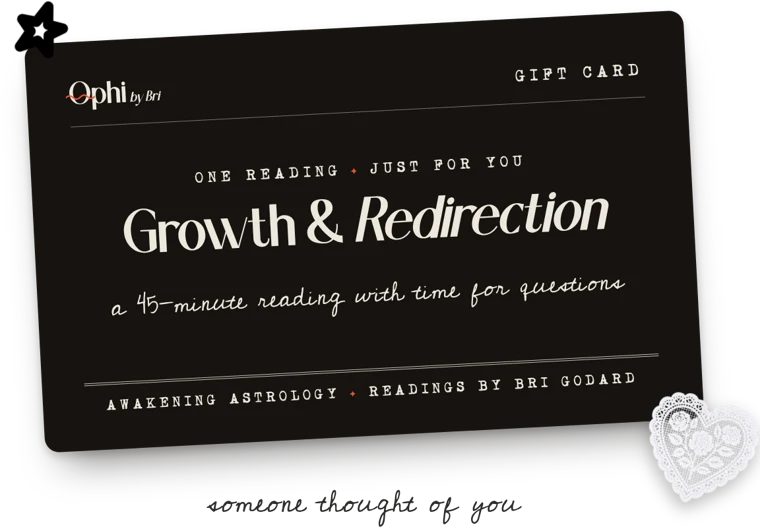
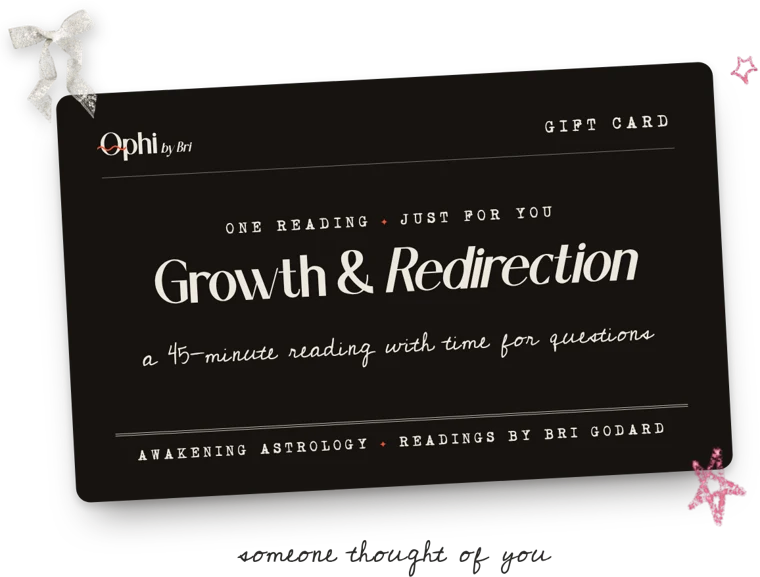
Gift: chrome-star art on the homepage gift note; each gift card has its own lace and star pieces; intro copy (Bri, 3 Nov)
Claude-Session: https://claude.ai/code/session_016a1P3APGb6PUkwFe7VrJqS

diff --git a/book/index.html b/book/index.html
@@ -33,8 +33,8 @@
 <link rel="preconnect" href="https://fonts.googleapis.com">
 <link rel="preconnect" href="https://fonts.gstatic.com" crossorigin>
 <link href="https://fonts.googleapis.com/css2?family=Inter:wght@400;500;600&family=Playfair+Display:ital,wght@0,400;0,500;0,600;0,700;0,800;1,400;1,500;1,600&family=Special+Elite&display=swap" rel="stylesheet">
-<link rel="stylesheet" href="/assets/ophi.css?v=96289251">
-<script src="/assets/menu.js?v=96289251" defer></script>
+<link rel="stylesheet" href="/assets/ophi.css?v=cd210a35">
+<script src="/assets/menu.js?v=cd210a35" defer></script>
 <script>(function(){var d=document.documentElement;function f(){var w=d.clientWidth||innerWidth,z=w>1280?Math.min(w/1280,2):1;d.style.setProperty('--z',z);d.style.setProperty('--vw',innerWidth/z/100+'px');d.style.setProperty('--vh',innerHeight/z/100+'px');window.OPHI_Z=z;K=0}var K=0;function k(){if(K)return K;var z=window.OPHI_Z||1;if(z==1||!document.body)return 1;var p=document.getElementById('ophi-probe');if(!p){p=document.createElement('div');p.id='ophi-probe';p.style.cssText='position:absolute;left:0;top:0;width:100px;height:1px;visibility:hidden;pointer-events:none';document.body.appendChild(p)}var w=p.getBoundingClientRect().width;K=w?z/(w/100):1;return K}window.OPHI_BOX=function(el){var r=el.getBoundingClientRect(),s=k();if(s>.99&&s<1.01)return r;return{left:r.left*s,top:r.top*s,right:r.right*s,bottom:r.bottom*s,width:r.width*s,height:r.height*s,x:r.left*s,y:r.top*s}};f();addEventListener('resize',f)})();</script>
 </head>
 <body class="flow">
@@ -141,10 +141,10 @@
   <div class="sec-row center">
     <h2 class="flow-h">Gift a <em>reading.</em></h2>
   </div>
-  <p class="book-intro">Know someone who would enjoy a reading? Gift them their star power. They get a gift card by email within minutes, with a private link to book a time that suits them. You don't need their birth details. They add those when they book.</p>
+  <p class="book-intro">Know someone who would enjoy a reading? Gift them their star power. They get a gift card by email within minutes, with a private link to book a time that suits them. You don't need their birth details. They add this themselves.</p>
   <div class="gift-trio">
     <figure class="gift-card">
-      <img src="/assets/gift/gift-meet-yourself.webp" alt="Ophi by Bri gift card for a Meet Yourself reading" width="760" height="527" loading="lazy" decoding="async">
+      <img src="/assets/gift/gift-meet-yourself.webp" alt="Ophi by Bri gift card for a Meet Yourself reading" width="760" height="578" loading="lazy" decoding="async">
       <figcaption><span class="gift-price">$135.45 <small>incl. GST</small></span></figcaption>
       <a class="price-cta" href="https://buy.stripe.com/9B628sddn4b25CNeti4c801" target="_blank" rel="noopener noreferrer">Gift this reading <svg width="18" height="18" viewBox="0 0 24 24" fill="none" stroke="currentColor" stroke-width="1.8" stroke-linecap="round" stroke-linejoin="round"><path d="M5 12h14M13 6l6 6-6 6"/></svg></a>
     </figure>
@@ -154,7 +154,7 @@
       <a class="price-cta" href="https://buy.stripe.com/3cI14o8X74b2ghr5WM4c800" target="_blank" rel="noopener noreferrer">Gift this reading <svg width="18" height="18" viewBox="0 0 24 24" fill="none" stroke="currentColor" stroke-width="1.8" stroke-linecap="round" stroke-linejoin="round"><path d="M5 12h14M13 6l6 6-6 6"/></svg></a>
     </figure>
     <figure class="gift-card">
-      <img src="/assets/gift/gift-growth-redirection.webp" alt="Ophi by Bri gift card for a Growth and Redirection reading" width="760" height="527" loading="lazy" decoding="async">
+      <img src="/assets/gift/gift-growth-redirection.webp" alt="Ophi by Bri gift card for a Growth and Redirection reading" width="760" height="577" loading="lazy" decoding="async">
       <figcaption><span class="gift-price">$103.95 <small>incl. GST</small></span></figcaption>
       <a class="price-cta" href="https://buy.stripe.com/3cI6oI1uF4b28OZ4SI4c802" target="_blank" rel="noopener noreferrer">Gift this reading <svg width="18" height="18" viewBox="0 0 24 24" fill="none" stroke="currentColor" stroke-width="1.8" stroke-linecap="round" stroke-linejoin="round"><path d="M5 12h14M13 6l6 6-6 6"/></svg></a>
     </figure>
@@ -206,6 +206,6 @@
   <svg class="sound-play" width="12" height="12" viewBox="0 0 24 24" aria-hidden="true"><path fill="currentColor" d="M6 3.5v17l14-8.5z"/></svg>
   <span class="sound-bars" aria-hidden="true"><i></i><i></i><i></i></span>
 </button>
-<script src="/assets/ophi.js?v=96289251"></script>
+<script src="/assets/ophi.js?v=cd210a35"></script>
 </body>
 </html>

diff --git a/assets/ophi.css b/assets/ophi.css
@@ -3102,7 +3102,7 @@ body.flow .hero.mini > .hero-key{--tilt:-14deg;left:calc(var(--key) * -.18);bott
 .gift-sec{padding-top:clamp(40px,calc(6 * var(--vw,1vw)),80px)}
 .gift-trio{display:grid;grid-template-columns:repeat(3,minmax(0,1fr));gap:clamp(18px,calc(2.4 * var(--vw,1vw)),32px);max-width:1084px;margin:0 auto;padding:0 var(--pad)}
 .gift-card{margin:0;display:flex;flex-direction:column;align-items:center;text-align:center}
-.gift-card img{width:100%;height:auto;display:block;transition:transform .3s}
+.gift-card img{width:100%;height:auto;aspect-ratio:760/578;object-fit:contain;object-position:center bottom;display:block;transition:transform .3s}
 .gift-card:hover img{transform:rotate(1.5deg) scale(1.02)}
 .gift-card figcaption{display:flex;flex-direction:column;gap:4px;margin:10px 0 16px}
 .gift-name{font-family:var(--font-title);font-size:clamp(22px,calc(2 * var(--vw,1vw)),28px);line-height:1.1;color:var(--ink)}
@@ -3111,14 +3111,19 @@ body.flow .hero.mini > .hero-key{--tilt:-14deg;left:calc(var(--key) * -.18);bott
 .gift-card .price-cta{margin-top:auto}
 .gift-fine{max-width:620px;margin:clamp(22px,calc(3 * var(--vw,1vw)),34px) auto 0;padding:0 var(--pad);text-align:center;font-size:13px;line-height:1.6;color:var(--ink-2,#413b32)}
 @media(max-width:820px){.gift-trio{grid-template-columns:1fr;max-width:420px}}
-.wel-gift{position:relative;display:grid;grid-template-columns:96px minmax(0,1fr);grid-template-areas:"tag q" "tag t" "tag go";column-gap:18px;row-gap:2px;
+.wel-gift{position:relative;display:grid;grid-template-columns:52px minmax(0,1fr);grid-template-areas:"tag q" "tag t" "tag go";column-gap:16px;row-gap:2px;
   align-items:center;width:fit-content;max-width:100%;box-sizing:border-box;margin-top:clamp(22px,calc(2.6 * var(--vw,1vw)),34px);padding:14px 22px 14px 18px;
   border:1.5px dashed rgba(22,19,16,.45);text-decoration:none;color:var(--ink);transform:rotate(-1.2deg);transition:transform .25s,border-color .25s}
 .wel-gift:hover,.wel-gift:focus-visible{transform:rotate(0deg) translateY(-2px);border-color:var(--coral)}
-.wg-tag{grid-area:tag;width:96px;height:auto;transform:rotate(-14deg)}
-.wg-bow{position:absolute;width:46px;right:-18px;top:-22px;transform:rotate(16deg)}
+.wg-art{grid-area:tag;position:relative;width:52px;height:96px;align-self:center}
+.wg-art img{position:absolute;height:auto;transition:transform .35s}
+.wg-s1{width:46px;left:0;top:10px;transform:rotate(-12deg)}
+.wg-s2{width:28px;left:26px;top:58px;transform:rotate(14deg)}
+.wg-s3{width:16px;left:4px;top:70px;transform:rotate(-6deg)}
+.wel-gift:hover .wg-s1{transform:rotate(8deg) scale(1.08)}
+.wel-gift:hover .wg-s2{transform:rotate(-10deg) scale(1.1)}
 .wg-q{grid-area:q;font-family:var(--font-hand);color:var(--pen);font-size:21px;line-height:1.1}
 .wg-t{grid-area:t;font-family:var(--font-title);font-size:clamp(22px,calc(2 * var(--vw,1vw)),27px);line-height:1.15}
 .wg-go{grid-area:go;justify-self:start;margin-top:6px;font-family:var(--font-button);font-size:10.5px;letter-spacing:.14em;text-transform:uppercase;border-bottom:1.5px solid var(--ink);padding-bottom:2px;transition:color .2s,border-color .2s}
 .wel-gift:hover .wg-go,.wel-gift:focus-visible .wg-go{color:var(--coral);border-color:var(--coral)}
-@media(max-width:520px){.wel-gift{grid-template-columns:62px minmax(0,1fr);padding:12px 16px 12px 12px;column-gap:12px}.wg-tag{width:62px}.wg-q{font-size:17px}.wg-bow{right:-8px}}
+@media(max-width:520px){.wel-gift{grid-template-columns:44px minmax(0,1fr);padding:12px 16px 12px 12px;column-gap:12px}.wg-art{transform:scale(.85);transform-origin:left center}.wg-q{font-size:17px}}

diff --git a/src/flow.css b/src/flow.css
@@ -2061,7 +2061,7 @@ body.flow .hero.mini > .hero-key{--tilt:-14deg;left:calc(var(--key) * -.18);bott
 .gift-sec{padding-top:clamp(40px,6vw,80px)}
 .gift-trio{display:grid;grid-template-columns:repeat(3,minmax(0,1fr));gap:clamp(18px,2.4vw,32px);max-width:1084px;margin:0 auto;padding:0 var(--pad)}
 .gift-card{margin:0;display:flex;flex-direction:column;align-items:center;text-align:center}
-.gift-card img{width:100%;height:auto;display:block;transition:transform .3s}
+.gift-card img{width:100%;height:auto;aspect-ratio:760/578;object-fit:contain;object-position:center bottom;display:block;transition:transform .3s}
 .gift-card:hover img{transform:rotate(1.5deg) scale(1.02)}
 .gift-card figcaption{display:flex;flex-direction:column;gap:4px;margin:10px 0 16px}
 .gift-name{font-family:var(--font-title);font-size:clamp(22px,2vw,28px);line-height:1.1;color:var(--ink)}
@@ -2070,14 +2070,19 @@ body.flow .hero.mini > .hero-key{--tilt:-14deg;left:calc(var(--key) * -.18);bott
 .gift-card .price-cta{margin-top:auto}
 .gift-fine{max-width:620px;margin:clamp(22px,3vw,34px) auto 0;padding:0 var(--pad);text-align:center;font-size:13px;line-height:1.6;color:var(--ink-2,#413b32)}
 @media(max-width:820px){.gift-trio{grid-template-columns:1fr;max-width:420px}}
-.wel-gift{position:relative;display:grid;grid-template-columns:96px minmax(0,1fr);grid-template-areas:"tag q" "tag t" "tag go";column-gap:18px;row-gap:2px;
+.wel-gift{position:relative;display:grid;grid-template-columns:52px minmax(0,1fr);grid-template-areas:"tag q" "tag t" "tag go";column-gap:16px;row-gap:2px;
   align-items:center;width:fit-content;max-width:100%;box-sizing:border-box;margin-top:clamp(22px,2.6vw,34px);padding:14px 22px 14px 18px;
   border:1.5px dashed rgba(22,19,16,.45);text-decoration:none;color:var(--ink);transform:rotate(-1.2deg);transition:transform .25s,border-color .25s}
 .wel-gift:hover,.wel-gift:focus-visible{transform:rotate(0deg) translateY(-2px);border-color:var(--coral)}
-.wg-tag{grid-area:tag;width:96px;height:auto;transform:rotate(-14deg)}
-.wg-bow{position:absolute;width:46px;right:-18px;top:-22px;transform:rotate(16deg)}
+.wg-art{grid-area:tag;position:relative;width:52px;height:96px;align-self:center}
+.wg-art img{position:absolute;height:auto;transition:transform .35s}
+.wg-s1{width:46px;left:0;top:10px;transform:rotate(-12deg)}
+.wg-s2{width:28px;left:26px;top:58px;transform:rotate(14deg)}
+.wg-s3{width:16px;left:4px;top:70px;transform:rotate(-6deg)}
+.wel-gift:hover .wg-s1{transform:rotate(8deg) scale(1.08)}
+.wel-gift:hover .wg-s2{transform:rotate(-10deg) scale(1.1)}
 .wg-q{grid-area:q;font-family:var(--font-hand);color:var(--pen);font-size:21px;line-height:1.1}
 .wg-t{grid-area:t;font-family:var(--font-title);font-size:clamp(22px,2vw,27px);line-height:1.15}
 .wg-go{grid-area:go;justify-self:start;margin-top:6px;font-family:var(--font-button);font-size:10.5px;letter-spacing:.14em;text-transform:uppercase;border-bottom:1.5px solid var(--ink);padding-bottom:2px;transition:color .2s,border-color .2s}
 .wel-gift:hover .wg-go,.wel-gift:focus-visible .wg-go{color:var(--coral);border-color:var(--coral)}
-@media(max-width:520px){.wel-gift{grid-template-columns:62px minmax(0,1fr);padding:12px 16px 12px 12px;column-gap:12px}.wg-tag{width:62px}.wg-q{font-size:17px}.wg-bow{right:-8px}}
+@media(max-width:520px){.wel-gift{grid-template-columns:44px minmax(0,1fr);padding:12px 16px 12px 12px;column-gap:12px}.wg-art{transform:scale(.85);transform-origin:left center}.wg-q{font-size:17px}}

diff --git a/index.html b/index.html
@@ -30,8 +30,8 @@
 <link rel="preconnect" href="https://fonts.googleapis.com">
 <link rel="preconnect" href="https://fonts.gstatic.com" crossorigin>
 <link href="https://fonts.googleapis.com/css2?family=Inter:wght@400;500;600&family=Playfair+Display:ital,wght@0,400;0,500;0,600;0,700;0,800;1,400;1,500;1,600&family=Special+Elite&display=swap" rel="stylesheet">
-<link rel="stylesheet" href="/assets/ophi.css?v=96289251">
-<script src="/assets/menu.js?v=96289251" defer></script>
+<link rel="stylesheet" href="/assets/ophi.css?v=cd210a35">
+<script src="/assets/menu.js?v=cd210a35" defer></script>
 <script>(function(){var d=document.documentElement;function f(){var w=d.clientWidth||innerWidth,z=w>1280?Math.min(w/1280,2):1;d.style.setProperty('--z',z);d.style.setProperty('--vw',innerWidth/z/100+'px');d.style.setProperty('--vh',innerHeight/z/100+'px');window.OPHI_Z=z;K=0}var K=0;function k(){if(K)return K;var z=window.OPHI_Z||1;if(z==1||!document.body)return 1;var p=document.getElementById('ophi-probe');if(!p){p=document.createElement('div');p.id='ophi-probe';p.style.cssText='position:absolute;left:0;top:0;width:100px;height:1px;visibility:hidden;pointer-events:none';document.body.appendChild(p)}var w=p.getBoundingClientRect().width;K=w?z/(w/100):1;return K}window.OPHI_BOX=function(el){var r=el.getBoundingClientRect(),s=k();if(s>.99&&s<1.01)return r;return{left:r.left*s,top:r.top*s,right:r.right*s,bottom:r.bottom*s,width:r.width*s,height:r.height*s,x:r.left*s,y:r.top*s}};f();addEventListener('resize',f)})();</script>
 </head>
 <body class="flow">
@@ -139,8 +139,7 @@
         <p class="np-lede">Ophi is Awakening Astrology for the curious, the questioning, the daring, and anyone standing at the edge of a new chapter.</p>
         <p class="np-wel-body">Get curious about yourself. You might be surprised it's been there all along.</p>
         <a class="wel-gift" href="/book/#gift">
-          <img class="wg-tag" src="/assets/cork/tag.webp" alt="" aria-hidden="true" loading="lazy" decoding="async">
-          <img class="wg-bow" src="/assets/journal/bow.webp" alt="" aria-hidden="true" loading="lazy" decoding="async">
+          <span class="wg-art" aria-hidden="true"><img class="wg-s1" src="/assets/journal/chrome-star-4.webp" alt="" loading="lazy" decoding="async"><img class="wg-s2" src="/assets/journal/chrome-star-1.webp" alt="" loading="lazy" decoding="async"><img class="wg-s3" src="/assets/eph/glitter-star-2.webp" alt="" loading="lazy" decoding="async"></span>
           <span class="wg-q">know someone who would enjoy a reading?</span>
           <span class="wg-t">Gift them their <em>star power.</em></span>
           <span class="wg-go">Gift a reading &rarr;</span>
@@ -299,6 +298,6 @@
   <svg class="sound-play" width="12" height="12" viewBox="0 0 24 24" aria-hidden="true"><path fill="currentColor" d="M6 3.5v17l14-8.5z"/></svg>
   <span class="sound-bars" aria-hidden="true"><i></i><i></i><i></i></span>
 </button>
-<script src="/assets/ophi.js?v=96289251"></script>
+<script src="/assets/ophi.js?v=cd210a35"></script>
 </body>
 </html>

diff --git a/src/pages/book.html b/src/pages/book.html
@@ -27,10 +27,10 @@
   <div class="sec-row center">
     <h2 class="flow-h">Gift a <em>reading.</em></h2>
   </div>
-  <p class="book-intro">Know someone who would enjoy a reading? Gift them their star power. They get a gift card by email within minutes, with a private link to book a time that suits them. You don't need their birth details. They add those when they book.</p>
+  <p class="book-intro">Know someone who would enjoy a reading? Gift them their star power. They get a gift card by email within minutes, with a private link to book a time that suits them. You don't need their birth details. They add this themselves.</p>
   <div class="gift-trio">
     <figure class="gift-card">
-      <img src="/assets/gift/gift-meet-yourself.webp" alt="Ophi by Bri gift card for a Meet Yourself reading" width="760" height="527" loading="lazy" decoding="async">
+      <img src="/assets/gift/gift-meet-yourself.webp" alt="Ophi by Bri gift card for a Meet Yourself reading" width="760" height="578" loading="lazy" decoding="async">
       <figcaption><span class="gift-price">$135.45 <small>incl. GST</small></span></figcaption>
       <a class="price-cta" href="https://buy.stripe.com/9B628sddn4b25CNeti4c801" target="_blank" rel="noopener noreferrer">Gift this reading <svg width="18" height="18" viewBox="0 0 24 24" fill="none" stroke="currentColor" stroke-width="1.8" stroke-linecap="round" stroke-linejoin="round"><path d="M5 12h14M13 6l6 6-6 6"/></svg></a>
     </figure>
@@ -40,7 +40,7 @@
       <a class="price-cta" href="https://buy.stripe.com/3cI14o8X74b2ghr5WM4c800" target="_blank" rel="noopener noreferrer">Gift this reading <svg width="18" height="18" viewBox="0 0 24 24" fill="none" stroke="currentColor" stroke-width="1.8" stroke-linecap="round" stroke-linejoin="round"><path d="M5 12h14M13 6l6 6-6 6"/></svg></a>
     </figure>
     <figure class="gift-card">
-      <img src="/assets/gift/gift-growth-redirection.webp" alt="Ophi by Bri gift card for a Growth and Redirection reading" width="760" height="527" loading="lazy" decoding="async">
+      <img src="/assets/gift/gift-growth-redirection.webp" alt="Ophi by Bri gift card for a Growth and Redirection reading" width="760" height="577" loading="lazy" decoding="async">
       <figcaption><span class="gift-price">$103.95 <small>incl. GST</small></span></figcaption>
       <a class="price-cta" href="https://buy.stripe.com/3cI6oI1uF4b28OZ4SI4c802" target="_blank" rel="noopener noreferrer">Gift this reading <svg width="18" height="18" viewBox="0 0 24 24" fill="none" stroke="currentColor" stroke-width="1.8" stroke-linecap="round" stroke-linejoin="round"><path d="M5 12h14M13 6l6 6-6 6"/></svg></a>
     </figure>

diff --git a/this-season/2026/10/index.html b/this-season/2026/10/index.html
@@ -30,8 +30,8 @@
 <link rel="preconnect" href="https://fonts.googleapis.com">
 <link rel="preconnect" href="https://fonts.gstatic.com" crossorigin>
 <link href="https://fonts.googleapis.com/css2?family=Inter:wght@400;500;600&family=Playfair+Display:ital,wght@0,400;0,500;0,600;0,700;0,800;1,400;1,500;1,600&family=Special+Elite&display=swap" rel="stylesheet">
-<link rel="stylesheet" href="/assets/ophi.css?v=96289251">
-<script src="/assets/menu.js?v=96289251" defer></script>
+<link rel="stylesheet" href="/assets/ophi.css?v=cd210a35">
+<script src="/assets/menu.js?v=cd210a35" defer></script>
 <script>(function(){var d=document.documentElement;function f(){var w=d.clientWidth||innerWidth,z=w>1280?Math.min(w/1280,2):1;d.style.setProperty('--z',z);d.style.setProperty('--vw',innerWidth/z/100+'px');d.style.setProperty('--vh',innerHeight/z/100+'px');window.OPHI_Z=z;K=0}var K=0;function k(){if(K)return K;var z=window.OPHI_Z||1;if(z==1||!document.body)return 1;var p=document.getElementById('ophi-probe');if(!p){p=document.createElement('div');p.id='ophi-probe';p.style.cssText='position:absolute;left:0;top:0;width:100px;height:1px;visibility:hidden;pointer-events:none';document.body.appendChild(p)}var w=p.getBoundingClientRect().width;K=w?z/(w/100):1;return K}window.OPHI_BOX=function(el){var r=el.getBoundingClientRect(),s=k();if(s>.99&&s<1.01)return r;return{left:r.left*s,top:r.top*s,right:r.right*s,bottom:r.bottom*s,width:r.width*s,height:r.height*s,x:r.left*s,y:r.top*s}};f();addEventListener('resize',f)})();</script>
 </head>
 <body class="flow">
@@ -302,6 +302,6 @@
   <svg class="sound-play" width="12" height="12" viewBox="0 0 24 24" aria-hidden="true"><path fill="currentColor" d="M6 3.5v17l14-8.5z"/></svg>
   <span class="sound-bars" aria-hidden="true"><i></i><i></i><i></i></span>
 </button>
-<script src="/assets/ophi.js?v=96289251"></script>
+<script src="/assets/ophi.js?v=cd210a35"></script>
 </body>
 </html>

diff --git a/this-season/2026/11/index.html b/this-season/2026/11/index.html
@@ -30,8 +30,8 @@
 <link rel="preconnect" href="https://fonts.googleapis.com">
 <link rel="preconnect" href="https://fonts.gstatic.com" crossorigin>
 <link href="https://fonts.googleapis.com/css2?family=Inter:wght@400;500;600&family=Playfair+Display:ital,wght@0,400;0,500;0,600;0,700;0,800;1,400;1,500;1,600&family=Special+Elite&display=swap" rel="stylesheet">
-<link rel="stylesheet" href="/assets/ophi.css?v=96289251">
-<script src="/assets/menu.js?v=96289251" defer></script>
+<link rel="stylesheet" href="/assets/ophi.css?v=cd210a35">
+<script src="/assets/menu.js?v=cd210a35" defer></script>
 <script>(function(){var d=document.documentElement;function f(){var w=d.clientWidth||innerWidth,z=w>1280?Math.min(w/1280,2):1;d.style.setProperty('--z',z);d.style.setProperty('--vw',innerWidth/z/100+'px');d.style.setProperty('--vh',innerHeight/z/100+'px');window.OPHI_Z=z;K=0}var K=0;function k(){if(K)return K;var z=window.OPHI_Z||1;if(z==1||!document.body)return 1;var p=document.getElementById('ophi-probe');if(!p){p=document.createElement('div');p.id='ophi-probe';p.style.cssText='position:absolute;left:0;top:0;width:100px;height:1px;visibility:hidden;pointer-events:none';document.body.appendChild(p)}var w=p.getBoundingClientRect().width;K=w?z/(w/100):1;return K}window.OPHI_BOX=function(el){var r=el.getBoundingClientRect(),s=k();if(s>.99&&s<1.01)return r;return{left:r.left*s,top:r.top*s,right:r.right*s,bottom:r.bottom*s,width:r.width*s,height:r.height*s,x:r.left*s,y:r.top*s}};f();addEventListener('resize',f)})();</script>
 </head>
 <body class="flow">
@@ -302,6 +302,6 @@
   <svg class="sound-play" width="12" height="12" viewBox="0 0 24 24" aria-hidden="true"><path fill="currentColor" d="M6 3.5v17l14-8.5z"/></svg>
   <span class="sound-bars" aria-hidden="true"><i></i><i></i><i></i></span>
 </button>
-<script src="/assets/ophi.js?v=96289251"></script>
+<script src="/assets/ophi.js?v=cd210a35"></script>
 </body>
 </html>

diff --git a/this-season/index.html b/this-season/index.html
@@ -30,8 +30,8 @@
 <link rel="preconnect" href="https://fonts.googleapis.com">
 <link rel="preconnect" href="https://fonts.gstatic.com" crossorigin>
 <link href="https://fonts.googleapis.com/css2?family=Inter:wght@400;500;600&family=Playfair+Display:ital,wght@0,400;0,500;0,600;0,700;0,800;1,400;1,500;1,600&family=Special+Elite&display=swap" rel="stylesheet">
-<link rel="stylesheet" href="/assets/ophi.css?v=96289251">
-<script src="/assets/menu.js?v=96289251" defer></script>
+<link rel="stylesheet" href="/assets/ophi.css?v=cd210a35">
+<script src="/assets/menu.js?v=cd210a35" defer></script>
 <script>(function(){var d=document.documentElement;function f(){var w=d.clientWidth||innerWidth,z=w>1280?Math.min(w/1280,2):1;d.style.setProperty('--z',z);d.style.setProperty('--vw',innerWidth/z/100+'px');d.style.setProperty('--vh',innerHeight/z/100+'px');window.OPHI_Z=z;K=0}var K=0;function k(){if(K)return K;var z=window.OPHI_Z||1;if(z==1||!document.body)return 1;var p=document.getElementById('ophi-probe');if(!p){p=document.createElement('div');p.id='ophi-probe';p.style.cssText='position:absolute;left:0;top:0;width:100px;height:1px;visibility:hidden;pointer-events:none';document.body.appendChild(p)}var w=p.getBoundingClientRect().width;K=w?z/(w/100):1;return K}window.OPHI_BOX=function(el){var r=el.getBoundingClientRect(),s=k();if(s>.99&&s<1.01)return r;return{left:r.left*s,top:r.top*s,right:r.right*s,bottom:r.bottom*s,width:r.width*s,height:r.height*s,x:r.left*s,y:r.top*s}};f();addEventListener('resize',f)})();</script>
 </head>
 <body class="flow">
@@ -302,6 +302,6 @@
   <svg class="sound-play" width="12" height="12" viewBox="0 0 24 24" aria-hidden="true"><path fill="currentColor" d="M6 3.5v17l14-8.5z"/></svg>
   <span class="sound-bars" aria-hidden="true"><i></i><i></i><i></i></span>
 </button>
-<script src="/assets/ophi.js?v=96289251"></script>
+<script src="/assets/ophi.js?v=cd210a35"></script>
 </body>
 </html>

diff --git a/rituals/index.html b/rituals/index.html
@@ -29,8 +29,8 @@
 <link rel="preconnect" href="https://fonts.googleapis.com">
 <link rel="preconnect" href="https://fonts.gstatic.com" crossorigin>
 <link href="https://fonts.googleapis.com/css2?family=Inter:wght@400;500;600&family=Playfair+Display:ital,wght@0,400;0,500;0,600;0,700;0,800;1,400;1,500;1,600&family=Special+Elite&display=swap" rel="stylesheet">
-<link rel="stylesheet" href="/assets/ophi.css?v=96289251">
-<script src="/assets/menu.js?v=96289251" defer></script>
+<link rel="stylesheet" href="/assets/ophi.css?v=cd210a35">
+<script src="/assets/menu.js?v=cd210a35" defer></script>
 <script>(function(){var d=document.documentElement;function f(){var w=d.clientWidth||innerWidth,z=w>1280?Math.min(w/1280,2):1;d.style.setProperty('--z',z);d.style.setProperty('--vw',innerWidth/z/100+'px');d.style.setProperty('--vh',innerHeight/z/100+'px');window.OPHI_Z=z;K=0}var K=0;function k(){if(K)return K;var z=window.OPHI_Z||1;if(z==1||!document.body)return 1;var p=document.getElementById('ophi-probe');if(!p){p=document.createElement('div');p.id='ophi-probe';p.style.cssText='position:absolute;left:0;top:0;width:100px;height:1px;visibility:hidden;pointer-events:none';document.body.appendChild(p)}var w=p.getBoundingClientRect().width;K=w?z/(w/100):1;return K}window.OPHI_BOX=function(el){var r=el.getBoundingClientRect(),s=k();if(s>.99&&s<1.01)return r;return{left:r.left*s,top:r.top*s,right:r.right*s,bottom:r.bottom*s,width:r.width*s,height:r.height*s,x:r.left*s,y:r.top*s}};f();addEventListener('resize',f)})();</script>
 </head>
 <body class="flow secret">
@@ -587,6 +587,6 @@ var tilt;
   addEventListener('scroll',function(){ if(!q){ q=true; requestAnimationFrame(tilt); } },{passive:true}); addEventListener('resize',tilt); tilt();
 })();
 </script>
-<script src="/assets/ophi.js?v=96289251"></script>
+<script src="/assets/ophi.js?v=cd210a35"></script>
 </body>
 </html>

diff --git a/404.html b/404.html
@@ -29,8 +29,8 @@
 <link rel="preconnect" href="https://fonts.googleapis.com">
 <link rel="preconnect" href="https://fonts.gstatic.com" crossorigin>
 <link href="https://fonts.googleapis.com/css2?family=Inter:wght@400;500;600&family=Playfair+Display:ital,wght@0,400;0,500;0,600;0,700;0,800;1,400;1,500;1,600&family=Special+Elite&display=swap" rel="stylesheet">
-<link rel="stylesheet" href="/assets/ophi.css?v=96289251">
-<script src="/assets/menu.js?v=96289251" defer></script>
+<link rel="stylesheet" href="/assets/ophi.css?v=cd210a35">
+<script src="/assets/menu.js?v=cd210a35" defer></script>
 <script>(function(){var d=document.documentElement;function f(){var w=d.clientWidth||innerWidth,z=w>1280?Math.min(w/1280,2):1;d.style.setProperty('--z',z);d.style.setProperty('--vw',innerWidth/z/100+'px');d.style.setProperty('--vh',innerHeight/z/100+'px');window.OPHI_Z=z;K=0}var K=0;function k(){if(K)return K;var z=window.OPHI_Z||1;if(z==1||!document.body)return 1;var p=document.getElementById('ophi-probe');if(!p){p=document.createElement('div');p.id='ophi-probe';p.style.cssText='position:absolute;left:0;top:0;width:100px;height:1px;visibility:hidden;pointer-events:none';document.body.appendChild(p)}var w=p.getBoundingClientRect().width;K=w?z/(w/100):1;return K}window.OPHI_BOX=function(el){var r=el.getBoundingClientRect(),s=k();if(s>.99&&s<1.01)return r;return{left:r.left*s,top:r.top*s,right:r.right*s,bottom:r.bottom*s,width:r.width*s,height:r.height*s,x:r.left*s,y:r.top*s}};f();addEventListener('resize',f)})();</script>
 </head>
 <body class="flow">
@@ -110,6 +110,6 @@
   <span class="sound-bars" aria-hidden="true"><i></i><i></i><i></i></span>
 </button>
 
-<script src="/assets/ophi.js?v=96289251"></script>
+<script src="/assets/ophi.js?v=cd210a35"></script>
 </body>
 </html>

diff --git a/privacy/index.html b/privacy/index.html
@@ -28,8 +28,8 @@
 <link rel="preconnect" href="https://fonts.googleapis.com">
 <link rel="preconnect" href="https://fonts.gstatic.com" crossorigin>
 <link href="https://fonts.googleapis.com/css2?family=Inter:wght@400;500;600&family=Playfair+Display:ital,wght@0,400;0,500;0,600;0,700;0,800;1,400;1,500;1,600&family=Special+Elite&display=swap" rel="stylesheet">
-<link rel="stylesheet" href="/assets/ophi.css?v=96289251">
-<script src="/assets/menu.js?v=96289251" defer></script>
+<link rel="stylesheet" href="/assets/ophi.css?v=cd210a35">
+<script src="/assets/menu.js?v=cd210a35" defer></script>
 <script>(function(){var d=document.documentElement;function f(){var w=d.clientWidth||innerWidth,z=w>1280?Math.min(w/1280,2):1;d.style.setProperty('--z',z);d.style.setProperty('--vw',innerWidth/z/100+'px');d.style.setProperty('--vh',innerHeight/z/100+'px');window.OPHI_Z=z;K=0}var K=0;function k(){if(K)return K;var z=window.OPHI_Z||1;if(z==1||!document.body)return 1;var p=document.getElementById('ophi-probe');if(!p){p=document.createElement('div');p.id='ophi-probe';p.style.cssText='position:absolute;left:0;top:0;width:100px;height:1px;visibility:hidden;pointer-events:none';document.body.appendChild(p)}var w=p.getBoundingClientRect().width;K=w?z/(w/100):1;return K}window.OPHI_BOX=function(el){var r=el.getBoundingClientRect(),s=k();if(s>.99&&s<1.01)return r;return{left:r.left*s,top:r.top*s,right:r.right*s,bottom:r.bottom*s,width:r.width*s,height:r.height*s,x:r.left*s,y:r.top*s}};f();addEventListener('resize',f)})();</script>
 </head>
 <body class="flow">
@@ -164,6 +164,6 @@
   <span class="sound-bars" aria-hidden="true"><i></i><i></i><i></i></span>
 </button>
 
-<script src="/assets/ophi.js?v=96289251"></script>
+<script src="/assets/ophi.js?v=cd210a35"></script>
 </body>
 </html>

diff --git a/readings/index.html b/readings/index.html
@@ -28,8 +28,8 @@
 <link rel="preconnect" href="https://fonts.googleapis.com">
 <link rel="preconnect" href="https://fonts.gstatic.com" crossorigin>
 <link href="https://fonts.googleapis.com/css2?family=Inter:wght@400;500;600&family=Playfair+Display:ital,wght@0,400;0,500;0,600;0,700;0,800;1,400;1,500;1,600&family=Special+Elite&display=swap" rel="stylesheet">
-<link rel="stylesheet" href="/assets/ophi.css?v=96289251">
-<script src="/assets/menu.js?v=96289251" defer></script>
+<link rel="stylesheet" href="/assets/ophi.css?v=cd210a35">
+<script src="/assets/menu.js?v=cd210a35" defer></script>
 <script>(function(){var d=document.documentElement;function f(){var w=d.clientWidth||innerWidth,z=w>1280?Math.min(w/1280,2):1;d.style.setProperty('--z',z);d.style.setProperty('--vw',innerWidth/z/100+'px');d.style.setProperty('--vh',innerHeight/z/100+'px');window.OPHI_Z=z;K=0}var K=0;function k(){if(K)return K;var z=window.OPHI_Z||1;if(z==1||!document.body)return 1;var p=document.getElementById('ophi-probe');if(!p){p=document.createElement('div');p.id='ophi-probe';p.style.cssText='position:absolute;left:0;top:0;width:100px;height:1px;visibility:hidden;pointer-events:none';document.body.appendChild(p)}var w=p.getBoundingClientRect().width;K=w?z/(w/100):1;return K}window.OPHI_BOX=function(el){var r=el.getBoundingClientRect(),s=k();if(s>.99&&s<1.01)return r;return{left:r.left*s,top:r.top*s,right:r.right*s,bottom:r.bottom*s,width:r.width*s,height:r.height*s,x:r.left*s,y:r.top*s}};f();addEventListener('resize',f)})();</script>
 </head>
 <body class="flow">
@@ -222,6 +222,6 @@
   <span class="sound-bars" aria-hidden="true"><i></i><i></i><i></i></span>
 </button>
 
-<script src="/assets/ophi.js?v=96289251"></script>
+<script src="/assets/ophi.js?v=cd210a35"></script>
 </body>
 </html>
